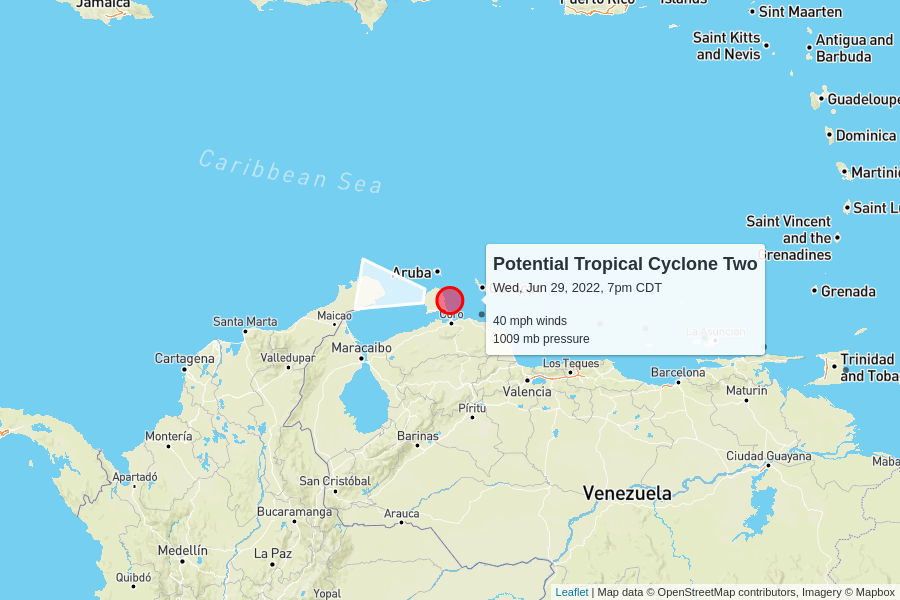
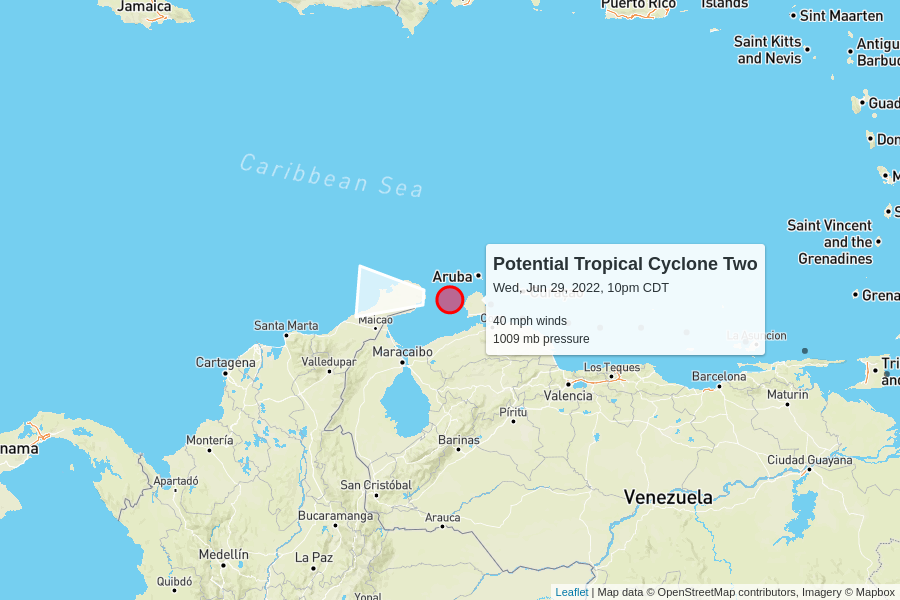
automatic update

diff --git a/docs/index.html b/docs/index.html
@@ -100,7 +100,7 @@
         <td colspan="6" class="storm category-0" >
           <h2>
             Potential Tropical Cyclone Two
-            <p class="updated">last updated <span data-time>2022-06-30T00:00:00.000Z</span></p>
+            <p class="updated">last updated <span data-time>2022-06-30T03:00:00.000Z</span></p>
           </h2>
         </td>
       </tr>
@@ -120,7 +120,7 @@
         <td>
           21 mph to the west
           <br/>
-          <span style="display: inline-block; font-size: 1.5em; transform: rotate(280deg);">↑</span>
+          <span style="display: inline-block; font-size: 1.5em; transform: rotate(275deg);">↑</span>
         </td>
         <td><a href="https://raw.githubusercontent.com/mgwalker/atlantic-hurricanes/main/data/csv/AL022022.csv">AL022022.csv</a></td>
         <td><a href="https://www.nhc.noaa.gov/archive/2022/TWO.shtml?">NHC advisories</a></td>
